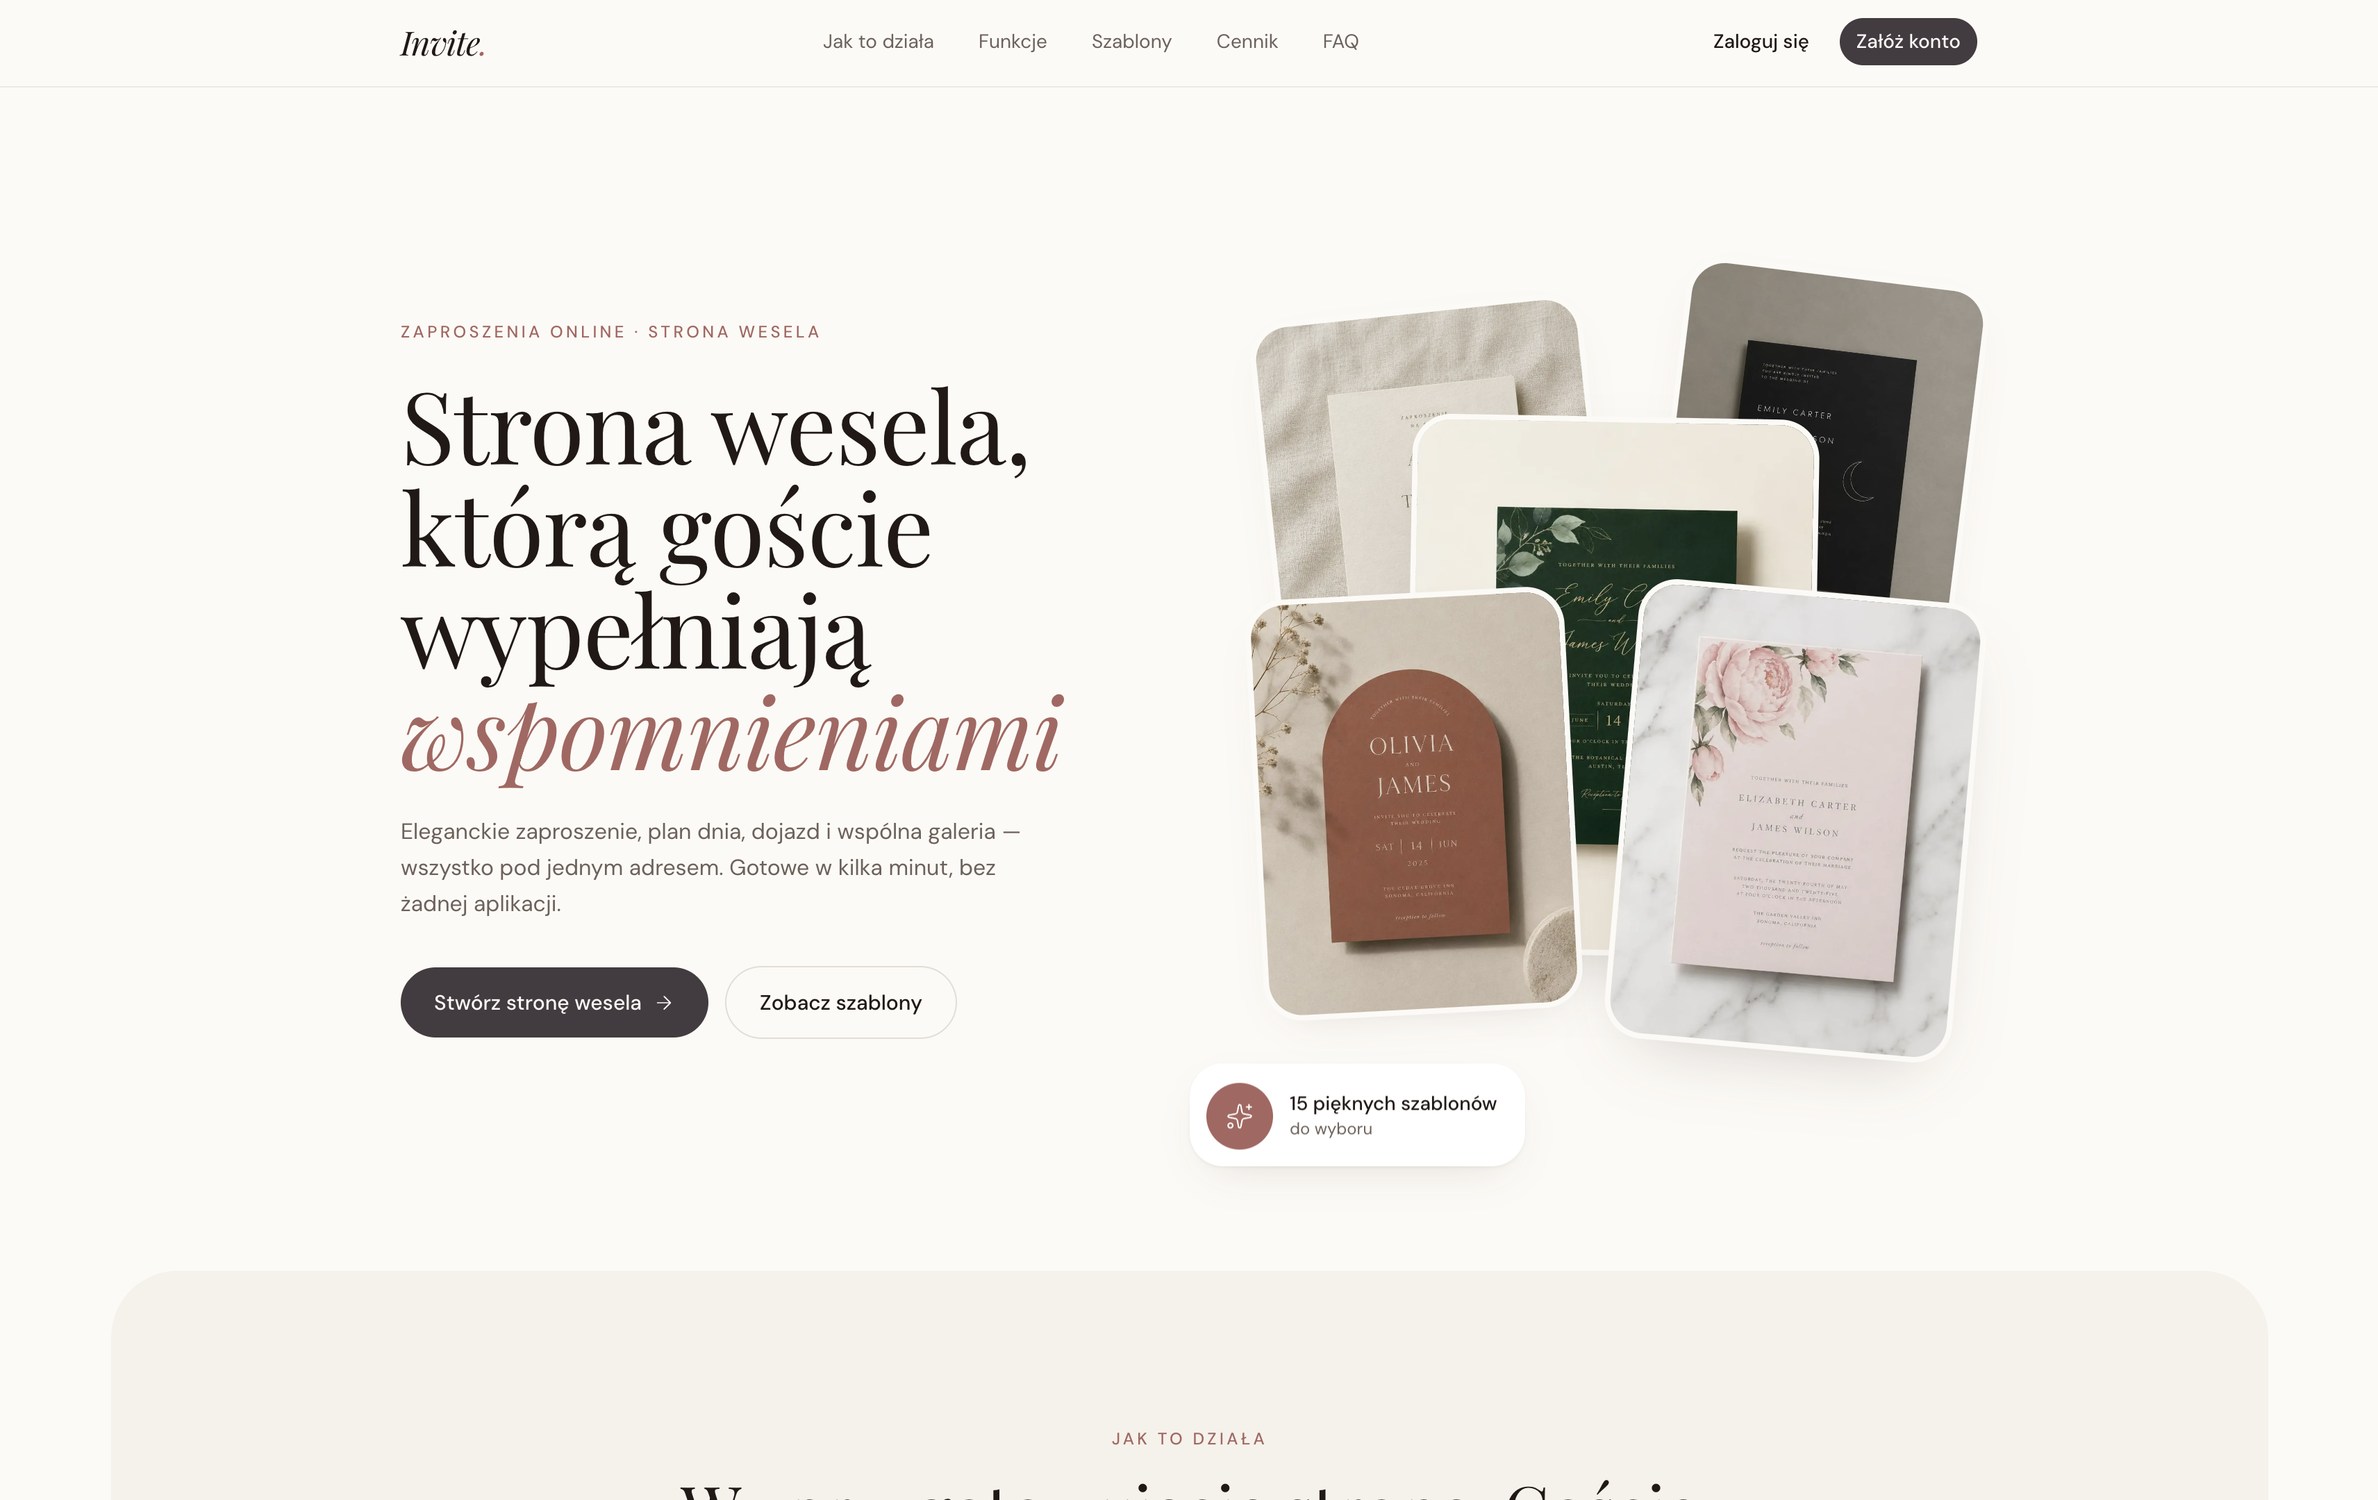
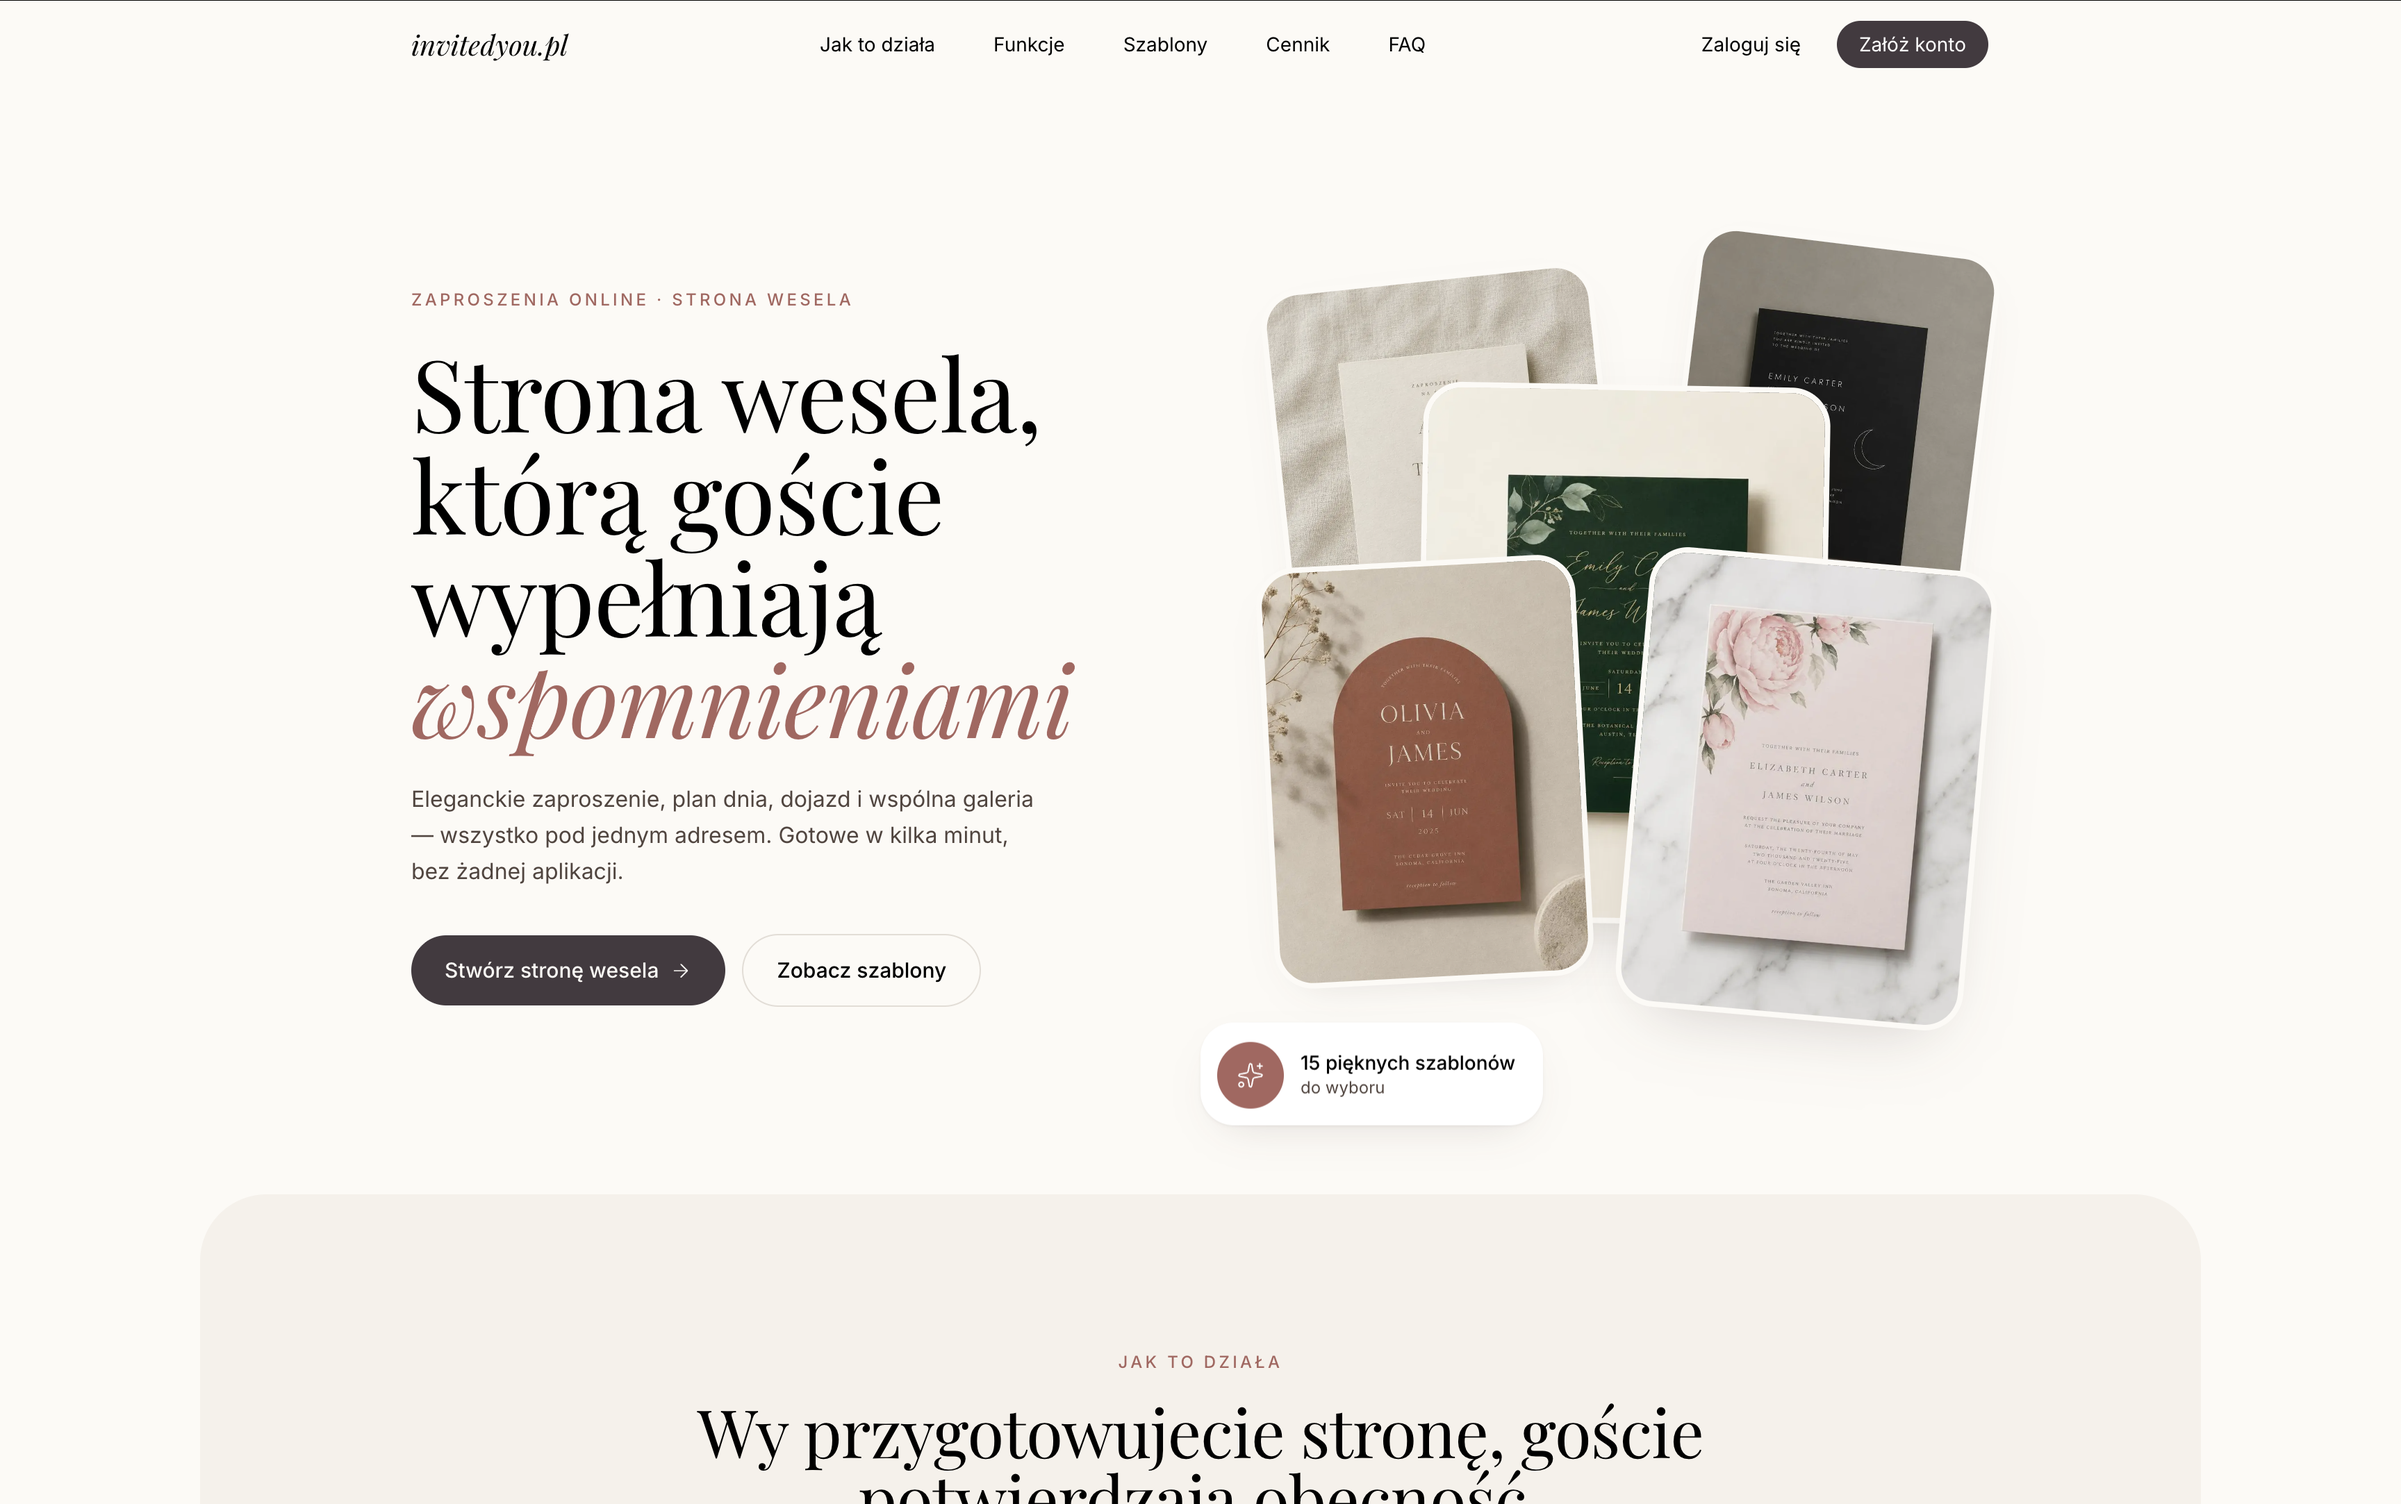
update invite description

diff --git a/src/data/projects/invite.ts b/src/data/projects/invite.ts
@@ -12,6 +12,7 @@ export const inviteProject: ProjectDetail = {
     "Shadcn",
     "React Hook Form",
     "Zod",
+    "Recreaft.ai",
   ],
   accent: "#d8a7ca",
   headline:
@@ -19,12 +20,12 @@ export const inviteProject: ProjectDetail = {
   intro: [
     "This side project is for creating and hosting wedding invitation websites. A couple registers, picks a personal address like john-monica.appdomain.pl, edits content in a dashboard, chooses a template, and publishes a page their guests can open on any device.",
     "The app is multi-tenant: one Next.js deployment serves the marketing site, dashboard, and every public invitation. Middleware reads the hostname and routes each subdomain to the right page without a separate deploy per couple.",
-    "The project is still in progress. The landing page, registration with slug reservation, and the invitation editor are working today.",
+    "The project is still in progress. The landing page, registration with slug reservation, invitation theme editor, wedding overview dashboard, and guest list are working today.",
   ],
   highlight:
-    "Next up: a guest list, RSVP, and a shared photo gallery so couples can collect attendance confirmations and let guests browse uploaded photos in one place.",
+    "Next up: guest-facing RSVP on the public invitation, a shared photo gallery, and richer statistics so couples can see responses and activity in one place.",
   screenshotIntro:
-    "What the product looks like so far, from the landing page to registration and the editor:",
+    "What the product looks like so far, from the landing page through registration, the editor, dashboard, and guest list:",
   heroImage: {
     src: "/projects/invite/invite-1.png",
     alt: "Invite landing page hero with headline about a wedding site filled with guest memories and a collage of invitation templates",
@@ -60,21 +61,47 @@ export const inviteProject: ProjectDetail = {
       ],
     },
     {
-      title: "Invitation Editor",
+      title: "Invitation Theme & Preview",
       paragraphs: [
-        "The dashboard editor has workspace tabs for Overview, Theme, Sections, and Publication. In Sections, each block of the invitation can be toggled and edited separately: couple, date, header, locations, schedule, FAQ, and RSVP.",
-        "Changes update a live preview on the right, with desktop and mobile modes. The green botanical template in the screenshot shows editable header copy synced to the mobile preview.",
+        "The invitation creator separates look and content across Theme, Sections, and Details tabs. Couples pick a base template, tune paper texture and page background, and can enable an envelope animation before saving.",
+        "A live preview on the right switches between desktop and mobile so copy and layout stay readable on phones - the screenshot shows the botanical template with an FAQ block guests will see on the published page.",
       ],
       image: {
         src: "/projects/invite/invite-6.png",
-        alt: "Invitation editor with Sections tab, header fields, and live mobile preview of Joanna and Rafał wedding template",
+        alt: "Invitation creator Theme tab with template picker, paper texture toggles, envelope animation, and mobile preview of FAQ section",
         caption:
-          "Invitation editor with section toggles and a live mobile preview.",
+          "Theme controls with template selection and a live mobile preview.",
+      },
+    },
+    {
+      title: "Wedding Dashboard",
+      paragraphs: [
+        "After signup, the overview dashboard summarizes the wedding at a glance: invited guests, confirmed and declined RSVPs, and how many responses are still pending.",
+        "A short checklist tracks planning tasks, recent activity lists guest and RSVP changes, and a QR code links to the guest app couples can print or share offline.",
+      ],
+      image: {
+        src: "/projects/invite/invite-7.png",
+        alt: "Wedding overview dashboard with RSVP counts, planning checklist, activity feed, guest app QR code, and invitation preview",
+        caption:
+          "Overview with RSVP stats, next steps, activity, and a guest-app QR code.",
+      },
+    },
+    {
+      title: "Guest List",
+      paragraphs: [
+        "The guest list is where couples manage invitees before send-out. They can add a couple, family, or group in one form, attach contact details and private notes, and mark companions or children per person.",
+        "The table shows headcount per entry, dietary or other notes, and confirmation status at a glance - expandable rows list everyone in a group when hosts need to edit or remove someone.",
+      ],
+      image: {
+        src: "/projects/invite/invite-8.png",
+        alt: "Guest list with add-group form and table showing names, contact info, party size, notes, and RSVP confirmation status",
+        caption:
+          "Add groups from the sidebar form; track RSVPs and notes in the table.",
       },
     },
   ],
   closing: [
     "Built with Next.js, React, TypeScript, and Supabase (Auth, PostgreSQL, RLS). Forms use React Hook Form and Zod. UI is Tailwind and Shadcn.",
-    "Still on the roadmap: a guest list for managing invitees, a full RSVP flow so guests can confirm attendance, and a photo gallery where guests can upload and browse shared wedding photos from the dashboard.",
+    "Still on the roadmap: RSVP on the public invitation page, a photo gallery where guests upload and browse shared wedding photos, and deeper analytics tied to the guest app.",
   ],
 };

diff --git a/src/data/image-blur-data.ts b/src/data/image-blur-data.ts
@@ -12,10 +12,12 @@ export const imageBlurData: Record<string, string> = {
[14 lines of base64/hex data omitted]
@@ -38,10 +40,12 @@ export const imageVersions: Record<string, string> = {
   "/projects/doors/Doors-4.png": "28d296b4",
   "/projects/flowboard/Flowboard-1.png": "4742b443",
   "/projects/flowboard/Flowboard-2.png": "ea435f63",
-  "/projects/invite/invite-1.png": "007a86a5",
+  "/projects/invite/invite-1.png": "e5f38a06",
   "/projects/invite/invite-4.png": "71f44ee0",
   "/projects/invite/invite-5.png": "e22da0da",
-  "/projects/invite/invite-6.png": "6d03167e",
+  "/projects/invite/invite-6.png": "b8e70ebc",
+  "/projects/invite/invite-7.png": "36161b7f",
+  "/projects/invite/invite-8.png": "a26e392c",
   "/projects/lerni/Lerni-1.png": "8f866f9a",
   "/projects/lerni/Lerni-2.png": "3ea263fd",
   "/projects/lerni/Lerni-3.png": "b38ccc41",
@@ -98,8 +102,8 @@ export const imageDimensions: Record<string, { width: number; height: number }> 
     "height": 1928
   },
   "/projects/invite/invite-1.png": {
-    "width": 3424,
-    "height": 2160
+    "width": 3456,
+    "height": 2166
   },
   "/projects/invite/invite-4.png": {
     "width": 1358,
@@ -110,6 +114,14 @@ export const imageDimensions: Record<string, { width: number; height: number }> 
     "height": 1710
   },
   "/projects/invite/invite-6.png": {
+    "width": 3456,
+    "height": 2166
+  },
+  "/projects/invite/invite-7.png": {
+    "width": 3456,
+    "height": 2166
+  },
+  "/projects/invite/invite-8.png": {
     "width": 3456,
     "height": 2166
   },

diff --git a/src/data/portfolio.ts b/src/data/portfolio.ts
@@ -44,6 +44,7 @@ export const projects = [
       "Shadcn",
       "React Hook Form",
       "Zod",
+      "Recraft.ai",
     ],
     href: "/projects/invite",
     accent: "#d8a7ca",
